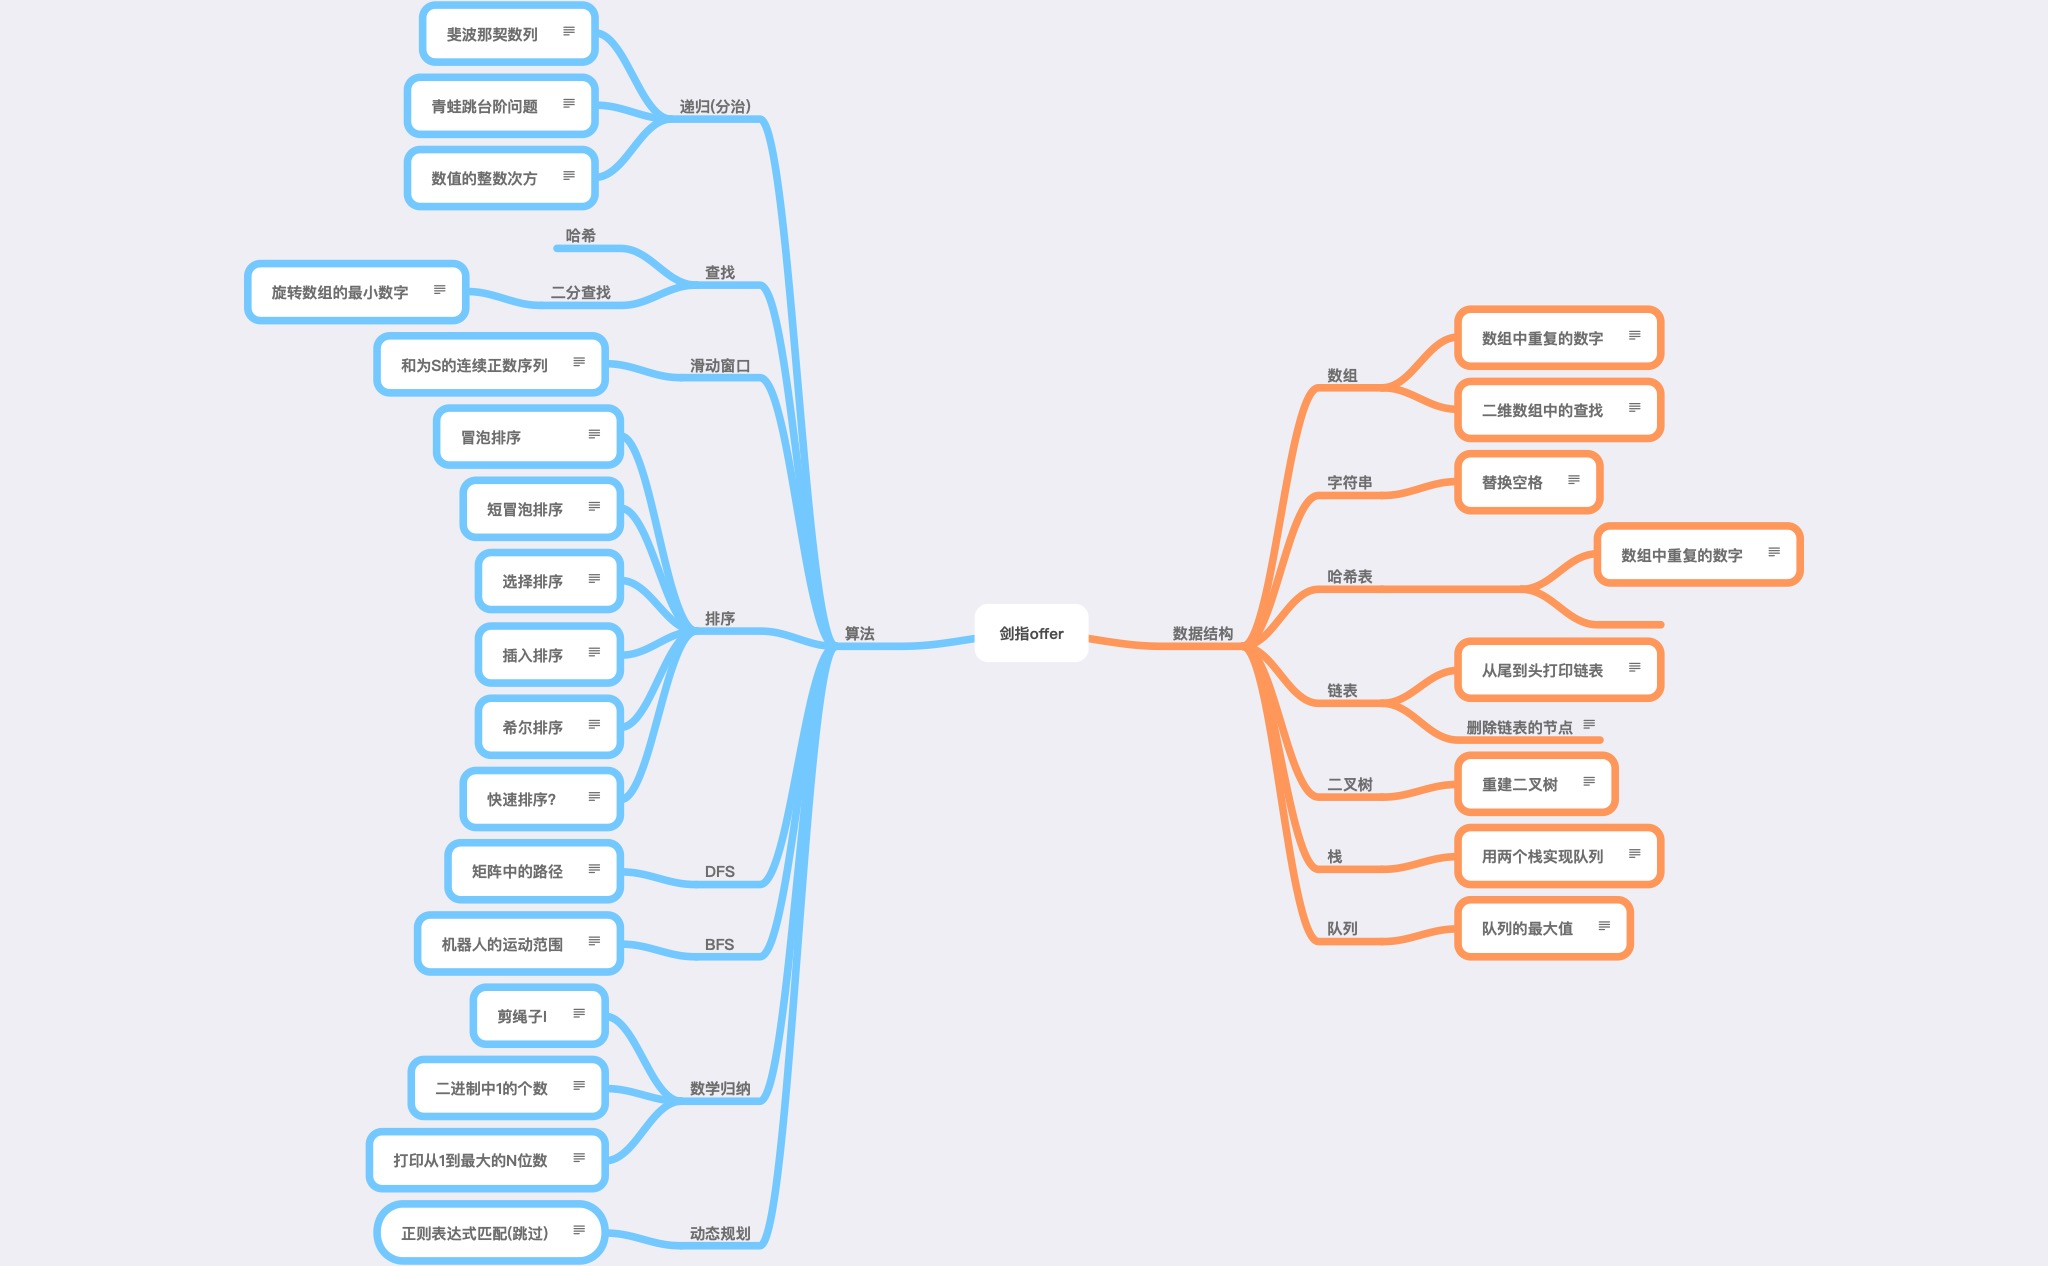
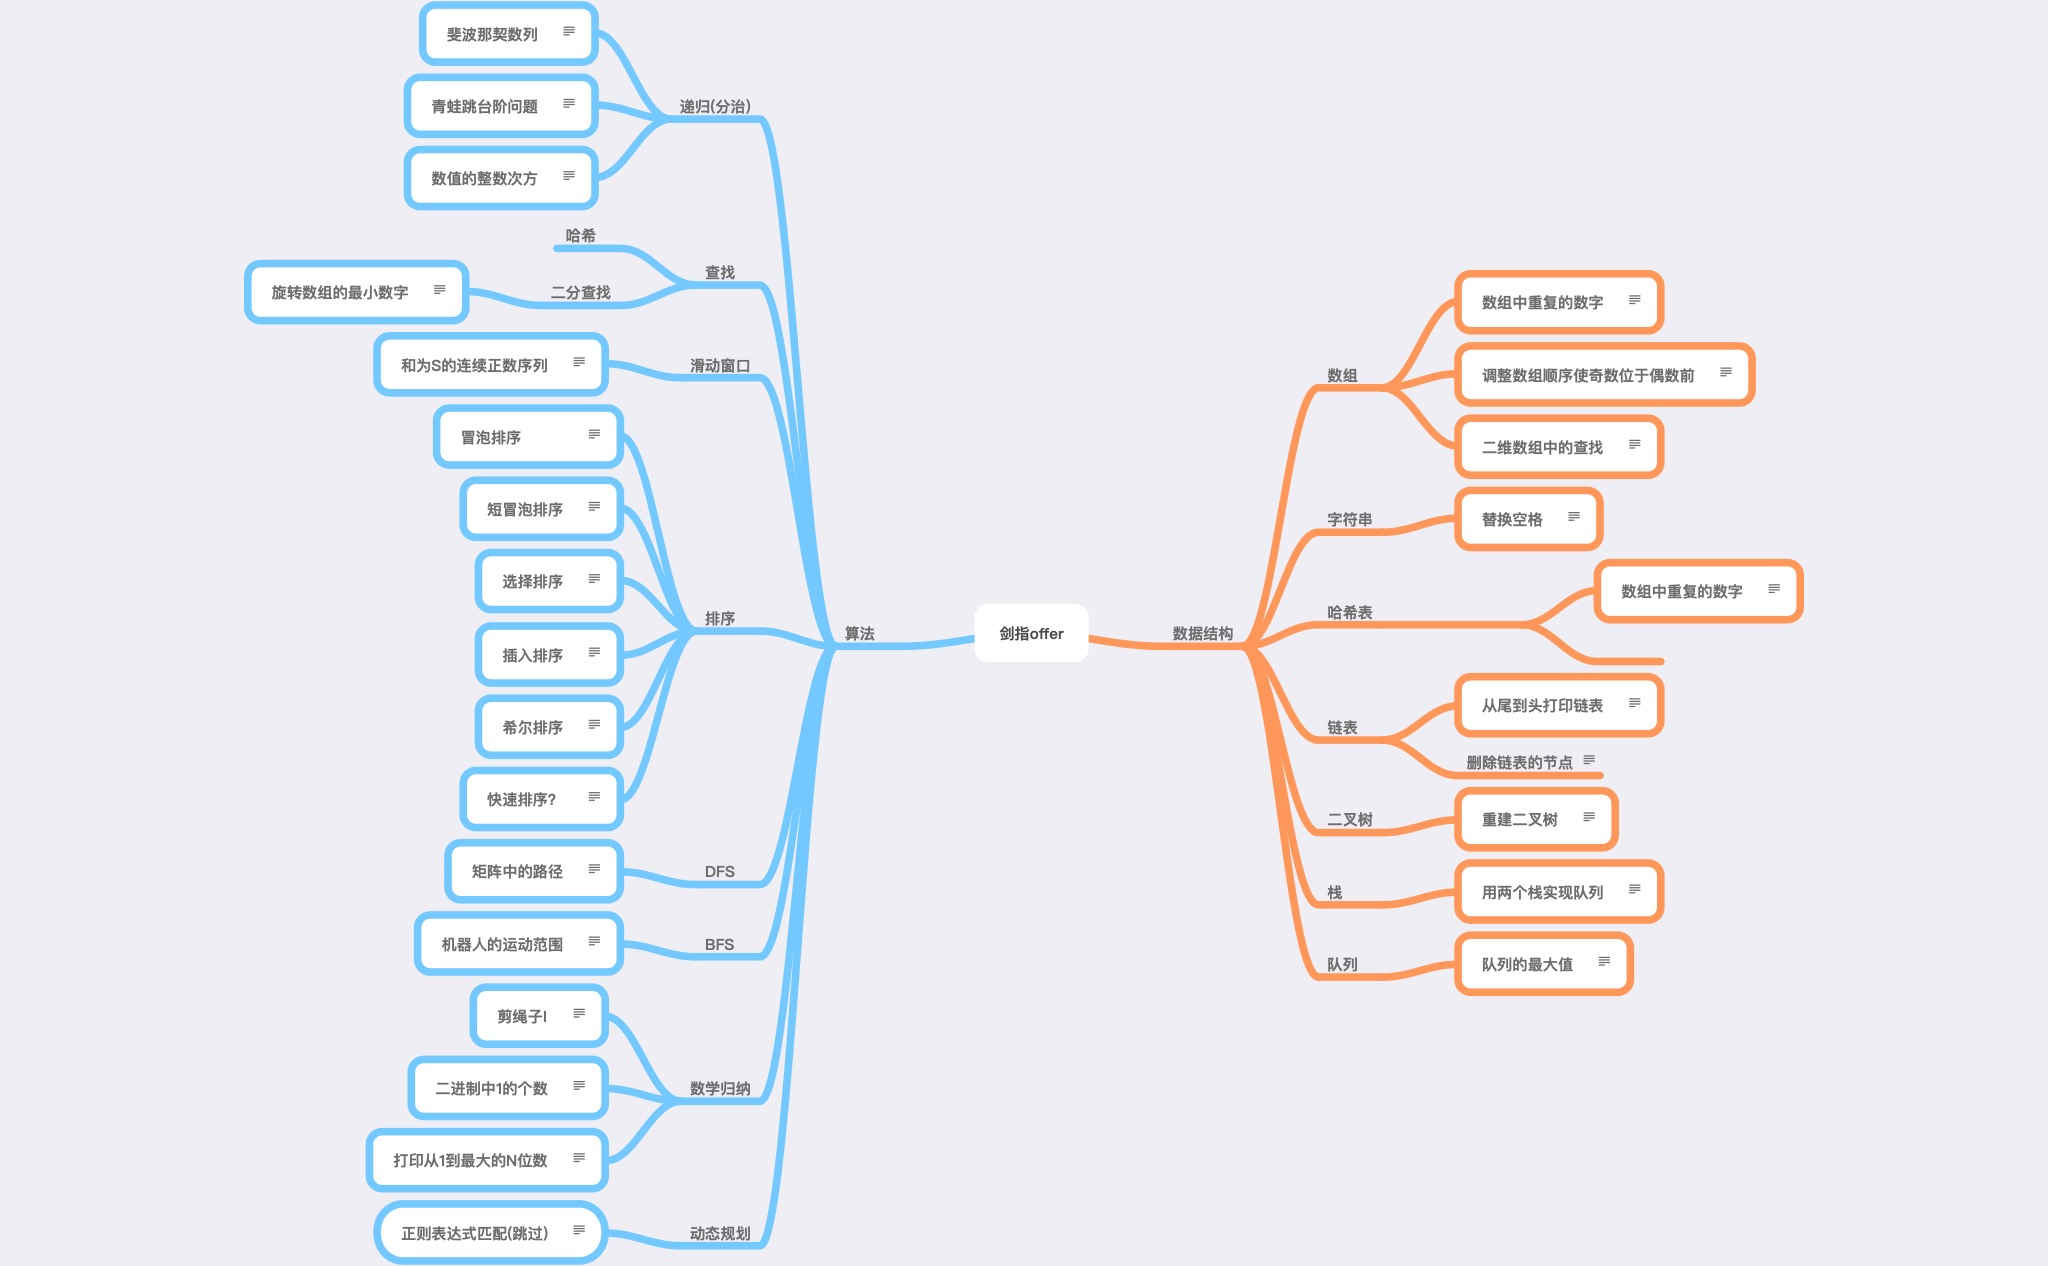
commit

Changed region(s): [[0.5938, 0.1848, 0.9062, 0.8009]]

diff --git a/offer-21/offer-21.py b/offer-21/offer-21.py
@@ -1,0 +1,26 @@
+#!/usr/bin/env python
+# -*- coding: utf-8 -*-
+# ylgongPw @ 2020-03-19 13:59:10
+
+from typing import List
+
+class Solution:
+    def exchange(self, nums: List[int]) -> List[int]:
+        odd = []
+        even = []
+
+        for num in nums:
+            if num % 2 != 0:
+                odd.append(num)
+            else:
+                even.append(num)
+
+        odd.extend(even)
+        return odd
+
+
+if __name__ == '__main__':
+    S = Solution()
+    ret = S.exchange([1,2,3,4])
+    print (ret)
+

diff --git a/offer.md b/offer.md
@@ -18,5 +18,7 @@
 | 面试题-17 | 简单 | [打印从1到最大的n位数](offer-17/offer-17.md) |  |
 | 面试题-18 | 简单 | [删除链表的节点](offer-18/offer-18.md) |  |
 | 面试题-19 | 困难 | [正则表达式匹配](offer-19/offer-19.md) | 放弃 |
+| 面试题-20 | 困难 | [有效的数字](offer-20/offer-20.md) | 放弃 |
+| 面试题-21 | 简单 | [调整数组顺序使奇数位于偶数前面](offer-21/offer-21.md) | |
 | 面试题-57-II | 简单 | [和为S的连续正数序列](offer-57/offer-57.md) |  |
 | 面试题-59-II | 简单 | [队列中的最大值](offer-59.1/offer-59.1.md) |  |

diff --git a/offer-21/offer-21.md b/offer-21/offer-21.md
@@ -1,0 +1,28 @@
+# 题目描述 
+
+```
+输入一个整数数组，实现一个函数来调整该数组中数字的顺序，使得所有奇数位于数组的前半部分，所有偶数位于数组的后半部分。
+
+示例：
+
+输入：nums = [1,2,3,4]
+输出：[1,3,2,4] 
+注：[3,1,2,4] 也是正确的答案之一。
+ 
+提示：
+
+1 <= nums.length <= 50000
+1 <= nums[i] <= 10000
+```
+
+# 解题思路
+
+* 遍历数组，分离出奇数和偶数
+* 奇数数组+偶数数组得到结果
+
+
+## 解题代码
+
+[调整数组顺序使奇数位于偶数前面](offer-12.py)
+
+ 
